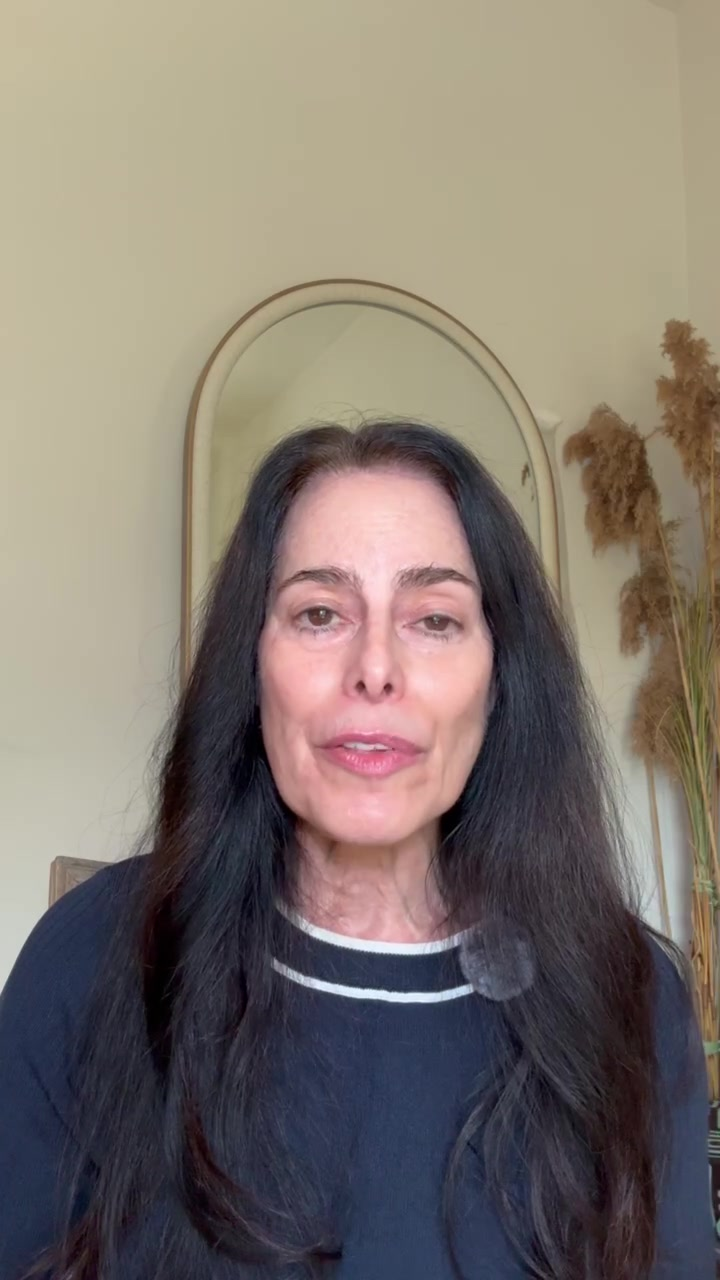
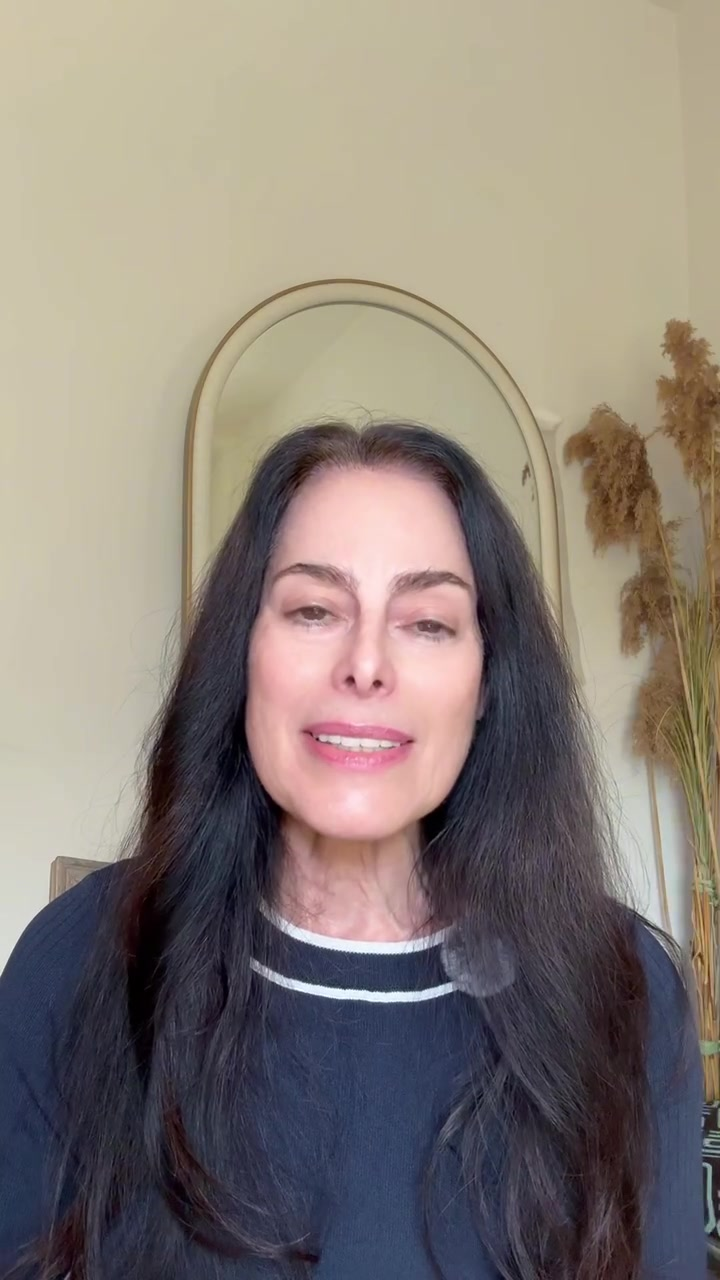
3am carousel: nicer photos of Laurel on slides 2, 3 and 5
Claude-Session: https://claude.ai/code/session_01CF5kZPHUyXZSqSxsL2qEtJ

diff --git a/carousels/awake-at-3am/carousel.html b/carousels/awake-at-3am/carousel.html
@@ -89,12 +89,12 @@
 
     <!-- 5 reason 3: headline moved up above her face, explanation below -->
     <section class="slide">
-      <img class="full" src="img/s5.jpg" style="object-position: 50% 78%" />
+      <img class="full" src="img/s5.jpg" style="object-position: 50% 62%" />
       <div class="quote">“Why am I awake again?”</div>
       <div class="tx cmp" style="top: 190px">
         <span class="lbl">Reason 3</span><p class="up"><span>Your cortisol rhythm is off.</span></p>
       </div>
-      <div class="tx cmp" style="top: 930px">
+      <div class="tx cmp" style="top: 1010px">
         <span class="lbl h">What it does</span><p class="sent" style="font-size: 42px"><span>Wired at night, flat in the morning. Late screens, late caffeine and stress all play a part.</span></p>
       </div>
       <svg class="arrow" viewBox="0 0 230 70"><path d="M8 40 C 70 30, 140 30, 214 36 M 176 12 C 192 22, 204 30, 216 36 C 202 44, 190 52, 178 62" fill="none" stroke="#fff" stroke-width="7" stroke-linecap="round" stroke-linejoin="round"/></svg>

diff --git a/carousels/awake-at-3am/SOURCES.md b/carousels/awake-at-3am/SOURCES.md
@@ -5,9 +5,9 @@ Stills taken from the iCloud shared album "Hannah and Laurel Content", recent-vi
 | Slide | Clip # | Second |
 |---|---|---|
 | 1 | 140 | 30 |
-| 2 | 144 | 5 |
-| 3 | 146 | 35 |
+| 2 | 027 | 38.7 |
+| 3 | 113 | 4.7 |
 | 4 | 118 | 5 |
-| 5 | 176 | 45 |
+| 5 | 177 | 64.5 |
 | 6 | 072 | 25 |
 | 7 | 135 | 11 |
